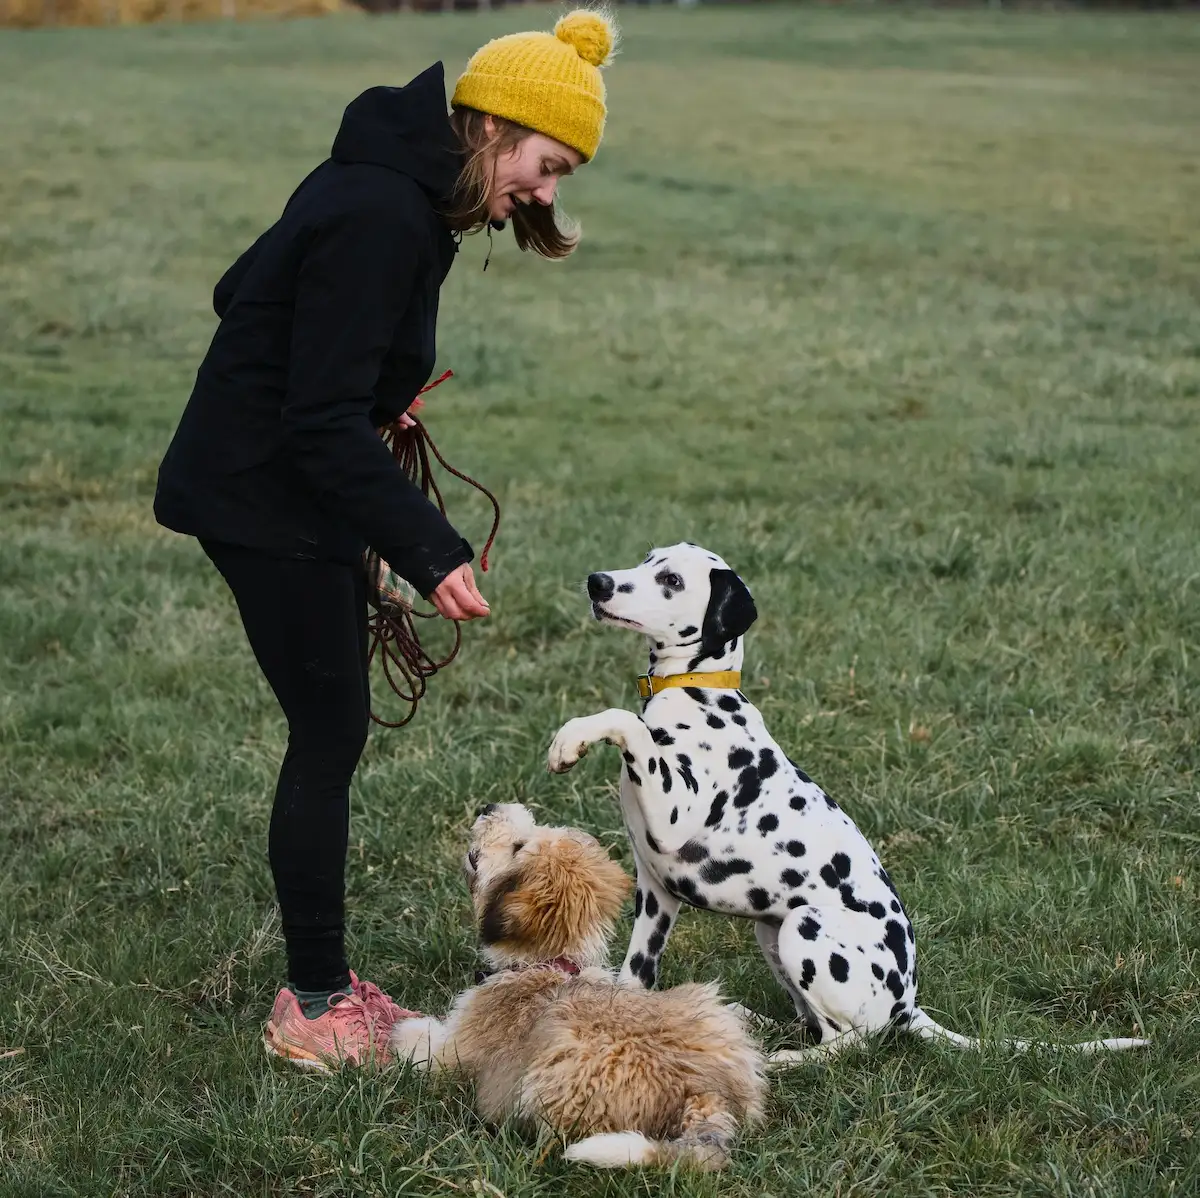
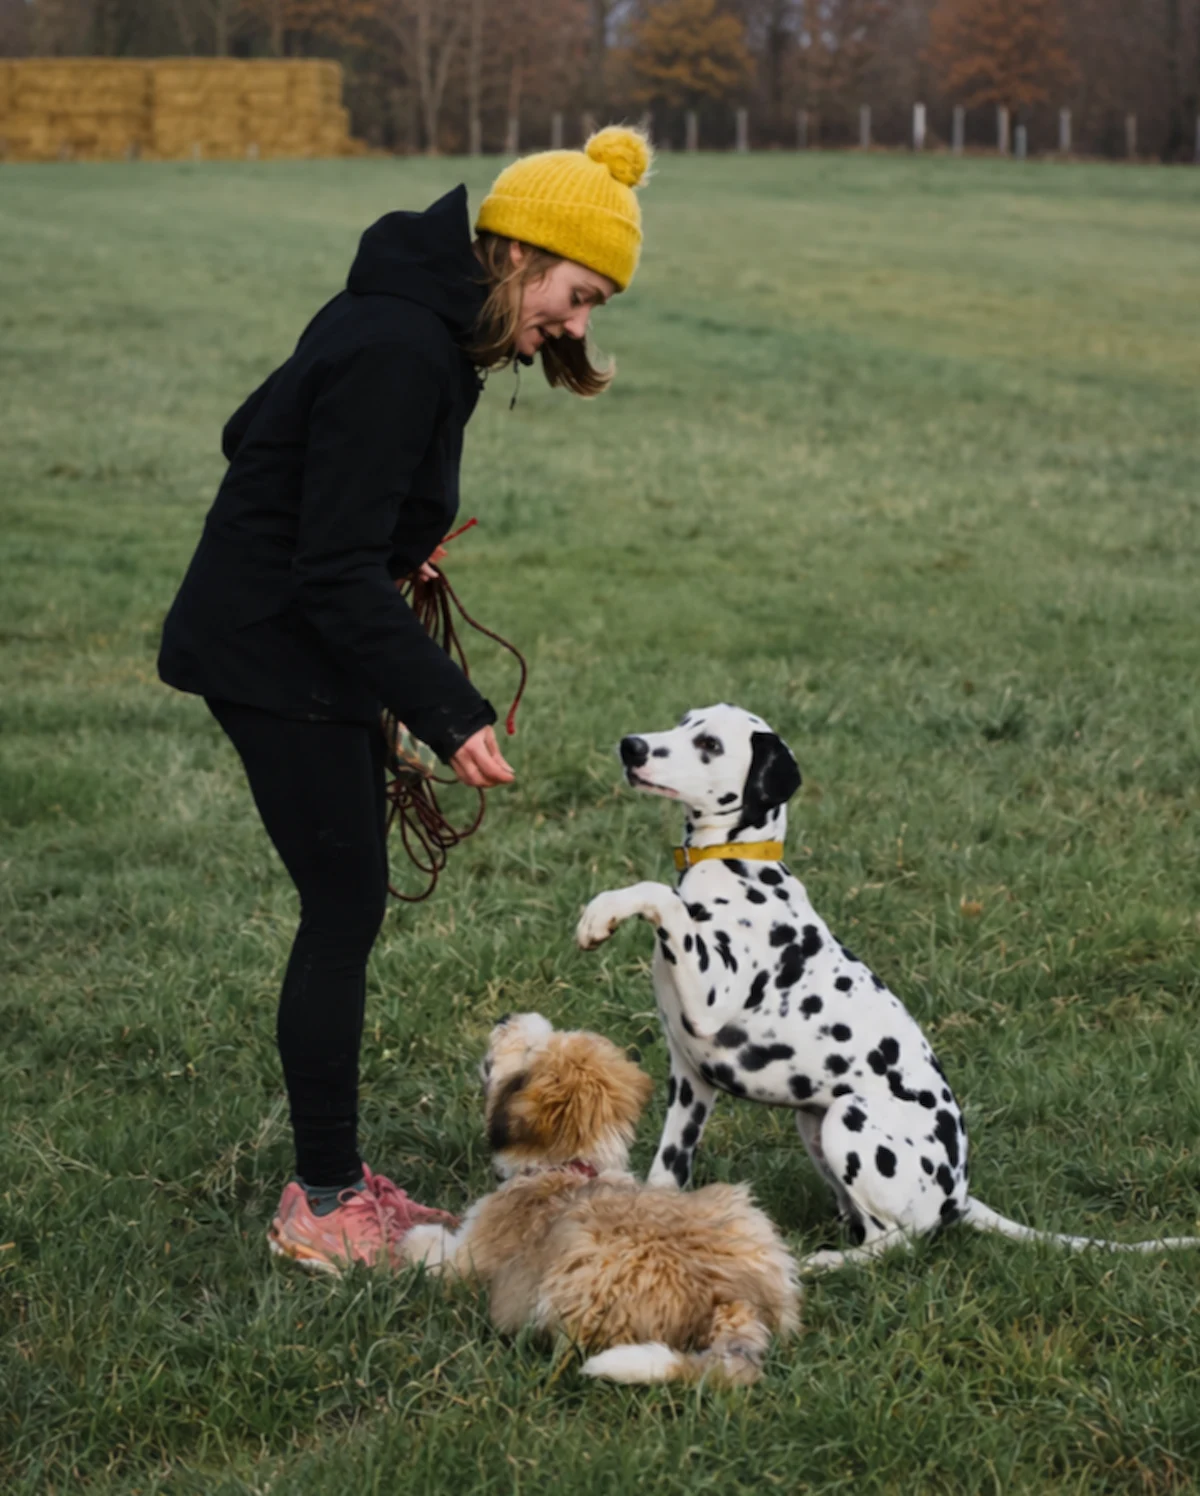
Refonte texte présentation + mise à jour photo portrait
- Réécriture de la section "Qui se cache derrière Dardidog" avec le parcours de Jéromine
- Remplacement des photos portrait par les nouvelles versions

diff --git a/index.html b/index.html
@@ -132,9 +132,7 @@
       <div class="container-with-photo">
         <div class="card" style="padding-top:20px; padding-bottom:20px;">
           <h2>QUI SE CACHE DERRIÈRE DARDIDOG ?</h2>
-          <p style="margin-bottom:0;">
-           Passionnée par les animaux depuis toujours, j'ai commencé par garder chiens, chats et lapins à mon domicile de manière occasionnelle pour finalement décider de faire de cette passion mon métier à temps plein. Ingénieure reconvertie, j'ai suivi une formation en éducation canine positive qui me permet d'assurer un accompagnement de qualité, toujours bienveillant et adapté aux besoins spécifiques de chaque animal.
-           Forte de cette expérience, j'étais enfin prête à adopter Selva, une jeune chienne croisée pleine d'énergie et très sociable, qui m'accompagne désormais autant que possible sur le terrain lors des promenades canines. Ensemble, nous accueillons chaque animal avec toute l'attention et l'affection qu'il mérite.</p>
+          <p>Derrière Dardidog, il y a moi, Jéromine, une jeune fille ayant grandi entourée d'animaux en tout genre : chiens, chats, lapins et bien d'autres faisaient partie de mon quotidien. C'est là que la graine fut semée. Arrivée à l'âge adulte, mon mode de vie ne me semblait pas compatible avec l'adoption d'un animal, mais le contact des animaux me manquait terriblement. Alors, j'ai commencé à en garder occasionnellement à mon domicile pour des particuliers. Et c'est là que la graine de Dardidog a germé. Ingénieure de formation, j'ai décidé de tout quitter pour me consacrer pleinement à cette passion. J'ai alors suivi une formation en éducation canine positive afin de proposer un accompagnement bienveillant, fondé sur des connaissances solides. Forte de cette expérience et avec un quotidien désormais plus sédentaire, j'ai enfin pu réaliser un rêve de longue date : adopter Selva, une jeune chienne croisée pleine d'énergie et très sociable qui m'accompagne désormais autant que possible lors des promenades canines.</p>
         </div>
         <div class="photo-aside">
           <picture>
